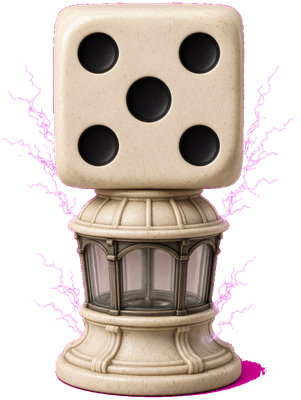
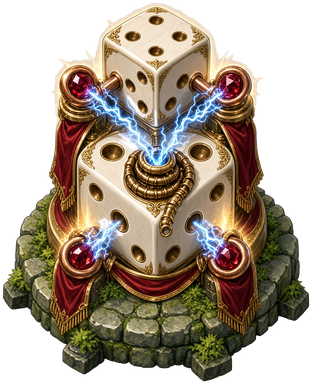
Add 78 final art assets: 24 tower skins, 34 walk sheets, 20 dual-path hard maps.
Tower b/c/d/e skins match tN-a silhouettes. Enemy and boss walk 2x2 sheets follow idle designs. Maps 31-50 now load *-hard.jpg dual-road layouts.

diff --git a/content.js b/content.js
@@ -31,26 +31,26 @@ window.DKCONTENT = (function () {
     { key: 'cMap28', src: 'casual/maps/map-28-toadstool.jpg', name: '버섯초원' },
     { key: 'cMap29', src: 'casual/maps/map-29-mesa.jpg', name: '메사협곡' },
     { key: 'cMap30', src: 'casual/maps/map-30-firefly.jpg', name: '반딧불숲' },
-    { key: 'cMap31', src: 'casual/maps/map-31-carnival.jpg', name: '서커스장' },
-    { key: 'cMap32', src: 'casual/maps/map-32-vineyard.jpg', name: '포도언덕' },
-    { key: 'cMap33', src: 'casual/maps/map-33-icelake.jpg', name: '얼음호수' },
-    { key: 'cMap34', src: 'casual/maps/map-34-jungle.jpg', name: '정글유적' },
-    { key: 'cMap35', src: 'casual/maps/map-35-tulip.jpg', name: '튤립풍차' },
-    { key: 'cMap36', src: 'casual/maps/map-36-crystalcity.jpg', name: '밤수정도시' },
-    { key: 'cMap37', src: 'casual/maps/map-37-lavender.jpg', name: '라벤더밭' },
-    { key: 'cMap38', src: 'casual/maps/map-38-halloween.jpg', name: '할로윈마을' },
-    { key: 'cMap39', src: 'casual/maps/map-39-bioreef.jpg', name: '야광산호' },
-    { key: 'cMap40', src: 'casual/maps/map-40-alpine.jpg', name: '알프스마을' },
-    { key: 'cMap41', src: 'casual/maps/map-41-rice.jpg', name: '계단식논' },
-    { key: 'cMap42', src: 'casual/maps/map-42-nightdesert.jpg', name: '밤오아시스' },
-    { key: 'cMap43', src: 'casual/maps/map-43-nightclock.jpg', name: '밤태엽도시' },
-    { key: 'cMap44', src: 'casual/maps/map-44-fairy.jpg', name: '요정공터' },
-    { key: 'cMap45', src: 'casual/maps/map-45-harbor.jpg', name: '어촌항구' },
-    { key: 'cMap46', src: 'casual/maps/map-46-nightbamboo.jpg', name: '밤대나무' },
-    { key: 'cMap47', src: 'casual/maps/map-47-candyspace.jpg', name: '사탕우주' },
-    { key: 'cMap48', src: 'casual/maps/map-48-orchard.jpg', name: '사과과수원' },
-    { key: 'cMap49', src: 'casual/maps/map-49-lavabeach.jpg', name: '용암해변' },
-    { key: 'cMap50', src: 'casual/maps/map-50-royal.jpg', name: '왕실정원' },
+    { key: 'cMap31', src: 'casual/maps/map-31-carnival-hard.jpg', name: '서커스장' },
+    { key: 'cMap32', src: 'casual/maps/map-32-vineyard-hard.jpg', name: '포도언덕' },
+    { key: 'cMap33', src: 'casual/maps/map-33-icelake-hard.jpg', name: '얼음호수' },
+    { key: 'cMap34', src: 'casual/maps/map-34-jungle-hard.jpg', name: '정글유적' },
+    { key: 'cMap35', src: 'casual/maps/map-35-tulip-hard.jpg', name: '튤립풍차' },
+    { key: 'cMap36', src: 'casual/maps/map-36-crystalcity-hard.jpg', name: '밤수정도시' },
+    { key: 'cMap37', src: 'casual/maps/map-37-lavender-hard.jpg', name: '라벤더밭' },
+    { key: 'cMap38', src: 'casual/maps/map-38-halloween-hard.jpg', name: '할로윈마을' },
+    { key: 'cMap39', src: 'casual/maps/map-39-bioreef-hard.jpg', name: '야광산호' },
+    { key: 'cMap40', src: 'casual/maps/map-40-alpine-hard.jpg', name: '알프스마을' },
+    { key: 'cMap41', src: 'casual/maps/map-41-rice-hard.jpg', name: '계단식논' },
+    { key: 'cMap42', src: 'casual/maps/map-42-nightdesert-hard.jpg', name: '밤오아시스' },
+    { key: 'cMap43', src: 'casual/maps/map-43-nightclock-hard.jpg', name: '밤태엽도시' },
+    { key: 'cMap44', src: 'casual/maps/map-44-fairy-hard.jpg', name: '요정공터' },
+    { key: 'cMap45', src: 'casual/maps/map-45-harbor-hard.jpg', name: '어촌항구' },
+    { key: 'cMap46', src: 'casual/maps/map-46-nightbamboo-hard.jpg', name: '밤대나무' },
+    { key: 'cMap47', src: 'casual/maps/map-47-candyspace-hard.jpg', name: '사탕우주' },
+    { key: 'cMap48', src: 'casual/maps/map-48-orchard-hard.jpg', name: '사과과수원' },
+    { key: 'cMap49', src: 'casual/maps/map-49-lavabeach-hard.jpg', name: '용암해변' },
+    { key: 'cMap50', src: 'casual/maps/map-50-royal-hard.jpg', name: '왕실정원' },
   ];
   // 공통 S커브 폴백: MAP_LAYOUTS에 항목이 없는 맵만 사용.
   const PATH_S = [
@@ -138,30 +138,30 @@ window.DKCONTENT = (function () {
     { id: 'raccoon', name: '너구리닌자', hp: 36, speed: 80, gold: 9, dmg: 1, size: 44, move: 'ground', sprite: 'cRaccoon', src: 'casual/enemies/raccoon.png', walk: 'cRaccoonWalk', walkSrc: 'casual/enemies/raccoon-walk-2x2.png' },
     { id: 'frog', name: '개구리음유시인', hp: 42, speed: 48, gold: 8, dmg: 1, size: 44, move: 'ground', sprite: 'cFrog', src: 'casual/enemies/frog.png', walk: 'cFrogWalk', walkSrc: 'casual/enemies/frog-walk-2x2.png' },
     { id: 'turtle', name: '거북전차', hp: 85, speed: 32, gold: 12, dmg: 2, size: 50, move: 'ground', sprite: 'cTurtle', src: 'casual/enemies/turtle.png', walk: 'cTurtleWalk', walkSrc: 'casual/enemies/turtle-walk-2x2.png' },
-    { id: 'squirrel', name: '도토리다람쥐', hp: 30, speed: 76, gold: 8, dmg: 1, size: 42, move: 'ground', sprite: 'cSquirrel', src: 'casual/enemies/squirrel.png' },
-    { id: 'hedgehog', name: '고슴도치창병', hp: 40, speed: 46, gold: 8, dmg: 1, size: 42, move: 'ground', sprite: 'cHedgehog', src: 'casual/enemies/hedgehog.png' },
-    { id: 'duck', name: '오리기사', hp: 44, speed: 58, gold: 8, dmg: 1, size: 46, move: 'ground', sprite: 'cDuck', src: 'casual/enemies/duck.png' },
-    { id: 'panda', name: '팬더수도승', hp: 72, speed: 36, gold: 11, dmg: 2, size: 50, move: 'ground', sprite: 'cPanda', src: 'casual/enemies/panda.png' },
-    { id: 'koala', name: '코알라우산', hp: 38, speed: 42, gold: 7, dmg: 1, size: 44, move: 'ground', sprite: 'cKoala', src: 'casual/enemies/koala.png' },
-    { id: 'catsamurai', name: '고양이무사', hp: 48, speed: 68, gold: 10, dmg: 1, size: 46, move: 'ground', sprite: 'cCatsamurai', src: 'casual/enemies/catsamurai.png' },
-    { id: 'goat', name: '염소등반가', hp: 55, speed: 50, gold: 9, dmg: 1, size: 48, move: 'ground', sprite: 'cGoat', src: 'casual/enemies/goat.png' },
-    { id: 'otter', name: '수달창병', hp: 36, speed: 64, gold: 8, dmg: 1, size: 42, move: 'ground', sprite: 'cOtter', src: 'casual/enemies/otter.png' },
-    { id: 'tanuki', name: '너구리요술사', hp: 42, speed: 52, gold: 9, dmg: 1, size: 46, move: 'ground', sprite: 'cTanuki', src: 'casual/enemies/tanuki.png' },
-    { id: 'wolf', name: '늑대정찰', hp: 44, speed: 72, gold: 10, dmg: 1, size: 46, move: 'ground', sprite: 'cWolf', src: 'casual/enemies/wolf.png' },
-    { id: 'boar', name: '멧돼지기사', hp: 78, speed: 40, gold: 12, dmg: 2, size: 50, move: 'ground', sprite: 'cBoar', src: 'casual/enemies/boar.png' },
-    { id: 'mouse', name: '생쥐마법사', hp: 28, speed: 66, gold: 8, dmg: 1, size: 40, move: 'ground', sprite: 'cMouse', src: 'casual/enemies/mouse.png' },
-    { id: 'chameleon', name: '카멜레온화가', hp: 40, speed: 54, gold: 9, dmg: 1, size: 44, move: 'ground', sprite: 'cChameleon', src: 'casual/enemies/chameleon.png' },
-    { id: 'seahorse', name: '해마기사', hp: 36, speed: 58, gold: 8, dmg: 1, size: 44, move: 'ground', sprite: 'cSeahorse', src: 'casual/enemies/seahorse.png' },
-    { id: 'alpaca', name: '알파카짐꾼', hp: 50, speed: 46, gold: 9, dmg: 1, size: 48, move: 'ground', sprite: 'cAlpaca', src: 'casual/enemies/alpaca.png' },
-    { id: 'beaver', name: '비버목수', hp: 52, speed: 44, gold: 9, dmg: 1, size: 46, move: 'ground', sprite: 'cBeaver', src: 'casual/enemies/beaver.png' },
-    { id: 'snake', name: '뱀닌자', hp: 34, speed: 82, gold: 10, dmg: 1, size: 42, move: 'ground', sprite: 'cSnake', src: 'casual/enemies/snake.png' },
-    { id: 'porcupine', name: '호저방패', hp: 70, speed: 38, gold: 11, dmg: 2, size: 48, move: 'ground', sprite: 'cPorcupine', src: 'casual/enemies/porcupine.png' },
-    { id: 'kiwi', name: '키위기사', hp: 40, speed: 50, gold: 8, dmg: 1, size: 44, move: 'ground', sprite: 'cKiwi', src: 'casual/enemies/kiwi.png' },
-    { id: 'rhino', name: '아기코뿔소', hp: 88, speed: 34, gold: 13, dmg: 2, size: 52, move: 'ground', sprite: 'cRhino', src: 'casual/enemies/rhino.png' },
-    { id: 'hippo', name: '하마선원', hp: 80, speed: 36, gold: 12, dmg: 2, size: 52, move: 'ground', sprite: 'cHippo', src: 'casual/enemies/hippo.png' },
-    { id: 'capybara', name: '카피바라온천', hp: 60, speed: 40, gold: 10, dmg: 1, size: 50, move: 'ground', sprite: 'cCapybara', src: 'casual/enemies/capybara.png' },
-    { id: 'axolotl', name: '아홀로틀마법', hp: 34, speed: 52, gold: 9, dmg: 1, size: 44, move: 'ground', sprite: 'cAxolotl', src: 'casual/enemies/axolotl.png' },
-    { id: 'meerkat', name: '미어캣파수', hp: 32, speed: 70, gold: 8, dmg: 1, size: 42, move: 'ground', sprite: 'cMeerkat', src: 'casual/enemies/meerkat.png' },
+    { id: 'squirrel', name: '도토리다람쥐', hp: 30, speed: 76, gold: 8, dmg: 1, size: 42, move: 'ground', sprite: 'cSquirrel', src: 'casual/enemies/squirrel.png', walk: 'cSquirrelWalk', walkSrc: 'casual/enemies/squirrel-walk-2x2.png' },
+    { id: 'hedgehog', name: '고슴도치창병', hp: 40, speed: 46, gold: 8, dmg: 1, size: 42, move: 'ground', sprite: 'cHedgehog', src: 'casual/enemies/hedgehog.png', walk: 'cHedgehogWalk', walkSrc: 'casual/enemies/hedgehog-walk-2x2.png' },
+    { id: 'duck', name: '오리기사', hp: 44, speed: 58, gold: 8, dmg: 1, size: 46, move: 'ground', sprite: 'cDuck', src: 'casual/enemies/duck.png', walk: 'cDuckWalk', walkSrc: 'casual/enemies/duck-walk-2x2.png' },
+    { id: 'panda', name: '팬더수도승', hp: 72, speed: 36, gold: 11, dmg: 2, size: 50, move: 'ground', sprite: 'cPanda', src: 'casual/enemies/panda.png', walk: 'cPandaWalk', walkSrc: 'casual/enemies/panda-walk-2x2.png' },
+    { id: 'koala', name: '코알라우산', hp: 38, speed: 42, gold: 7, dmg: 1, size: 44, move: 'ground', sprite: 'cKoala', src: 'casual/enemies/koala.png', walk: 'cKoalaWalk', walkSrc: 'casual/enemies/koala-walk-2x2.png' },
+    { id: 'catsamurai', name: '고양이무사', hp: 48, speed: 68, gold: 10, dmg: 1, size: 46, move: 'ground', sprite: 'cCatsamurai', src: 'casual/enemies/catsamurai.png', walk: 'cCatsamuraiWalk', walkSrc: 'casual/enemies/catsamurai-walk-2x2.png' },
+    { id: 'goat', name: '염소등반가', hp: 55, speed: 50, gold: 9, dmg: 1, size: 48, move: 'ground', sprite: 'cGoat', src: 'casual/enemies/goat.png', walk: 'cGoatWalk', walkSrc: 'casual/enemies/goat-walk-2x2.png' },
+    { id: 'otter', name: '수달창병', hp: 36, speed: 64, gold: 8, dmg: 1, size: 42, move: 'ground', sprite: 'cOtter', src: 'casual/enemies/otter.png', walk: 'cOtterWalk', walkSrc: 'casual/enemies/otter-walk-2x2.png' },
+    { id: 'tanuki', name: '너구리요술사', hp: 42, speed: 52, gold: 9, dmg: 1, size: 46, move: 'ground', sprite: 'cTanuki', src: 'casual/enemies/tanuki.png', walk: 'cTanukiWalk', walkSrc: 'casual/enemies/tanuki-walk-2x2.png' },
+    { id: 'wolf', name: '늑대정찰', hp: 44, speed: 72, gold: 10, dmg: 1, size: 46, move: 'ground', sprite: 'cWolf', src: 'casual/enemies/wolf.png', walk: 'cWolfWalk', walkSrc: 'casual/enemies/wolf-walk-2x2.png' },
+    { id: 'boar', name: '멧돼지기사', hp: 78, speed: 40, gold: 12, dmg: 2, size: 50, move: 'ground', sprite: 'cBoar', src: 'casual/enemies/boar.png', walk: 'cBoarWalk', walkSrc: 'casual/enemies/boar-walk-2x2.png' },
+    { id: 'mouse', name: '생쥐마법사', hp: 28, speed: 66, gold: 8, dmg: 1, size: 40, move: 'ground', sprite: 'cMouse', src: 'casual/enemies/mouse.png', walk: 'cMouseWalk', walkSrc: 'casual/enemies/mouse-walk-2x2.png' },
+    { id: 'chameleon', name: '카멜레온화가', hp: 40, speed: 54, gold: 9, dmg: 1, size: 44, move: 'ground', sprite: 'cChameleon', src: 'casual/enemies/chameleon.png', walk: 'cChameleonWalk', walkSrc: 'casual/enemies/chameleon-walk-2x2.png' },
+    { id: 'seahorse', name: '해마기사', hp: 36, speed: 58, gold: 8, dmg: 1, size: 44, move: 'ground', sprite: 'cSeahorse', src: 'casual/enemies/seahorse.png', walk: 'cSeahorseWalk', walkSrc: 'casual/enemies/seahorse-walk-2x2.png' },
+    { id: 'alpaca', name: '알파카짐꾼', hp: 50, speed: 46, gold: 9, dmg: 1, size: 48, move: 'ground', sprite: 'cAlpaca', src: 'casual/enemies/alpaca.png', walk: 'cAlpacaWalk', walkSrc: 'casual/enemies/alpaca-walk-2x2.png' },
+    { id: 'beaver', name: '비버목수', hp: 52, speed: 44, gold: 9, dmg: 1, size: 46, move: 'ground', sprite: 'cBeaver', src: 'casual/enemies/beaver.png', walk: 'cBeaverWalk', walkSrc: 'casual/enemies/beaver-walk-2x2.png' },
+    { id: 'snake', name: '뱀닌자', hp: 34, speed: 82, gold: 10, dmg: 1, size: 42, move: 'ground', sprite: 'cSnake', src: 'casual/enemies/snake.png', walk: 'cSnakeWalk', walkSrc: 'casual/enemies/snake-walk-2x2.png' },
+    { id: 'porcupine', name: '호저방패', hp: 70, speed: 38, gold: 11, dmg: 2, size: 48, move: 'ground', sprite: 'cPorcupine', src: 'casual/enemies/porcupine.png', walk: 'cPorcupineWalk', walkSrc: 'casual/enemies/porcupine-walk-2x2.png' },
+    { id: 'kiwi', name: '키위기사', hp: 40, speed: 50, gold: 8, dmg: 1, size: 44, move: 'ground', sprite: 'cKiwi', src: 'casual/enemies/kiwi.png', walk: 'cKiwiWalk', walkSrc: 'casual/enemies/kiwi-walk-2x2.png' },
+    { id: 'rhino', name: '아기코뿔소', hp: 88, speed: 34, gold: 13, dmg: 2, size: 52, move: 'ground', sprite: 'cRhino', src: 'casual/enemies/rhino.png', walk: 'cRhinoWalk', walkSrc: 'casual/enemies/rhino-walk-2x2.png' },
+    { id: 'hippo', name: '하마선원', hp: 80, speed: 36, gold: 12, dmg: 2, size: 52, move: 'ground', sprite: 'cHippo', src: 'casual/enemies/hippo.png', walk: 'cHippoWalk', walkSrc: 'casual/enemies/hippo-walk-2x2.png' },
+    { id: 'capybara', name: '카피바라온천', hp: 60, speed: 40, gold: 10, dmg: 1, size: 50, move: 'ground', sprite: 'cCapybara', src: 'casual/enemies/capybara.png', walk: 'cCapybaraWalk', walkSrc: 'casual/enemies/capybara-walk-2x2.png' },
+    { id: 'axolotl', name: '아홀로틀마법', hp: 34, speed: 52, gold: 9, dmg: 1, size: 44, move: 'ground', sprite: 'cAxolotl', src: 'casual/enemies/axolotl.png', walk: 'cAxolotlWalk', walkSrc: 'casual/enemies/axolotl-walk-2x2.png' },
+    { id: 'meerkat', name: '미어캣파수', hp: 32, speed: 70, gold: 8, dmg: 1, size: 42, move: 'ground', sprite: 'cMeerkat', src: 'casual/enemies/meerkat.png', walk: 'cMeerkatWalk', walkSrc: 'casual/enemies/meerkat-walk-2x2.png' },
     { id: 'lemur', name: '여우원숭이', hp: 38, speed: 68, gold: 9, dmg: 1, size: 44, move: 'ground', sprite: 'cLemur', src: 'casual/enemies/lemur.png' },
     { id: 'sloth', name: '나무늘보', hp: 55, speed: 28, gold: 8, dmg: 1, size: 48, move: 'ground', sprite: 'cSloth', src: 'casual/enemies/sloth.png' },
     { id: 'quokka', name: '쿼카꽃관', hp: 36, speed: 56, gold: 8, dmg: 1, size: 42, move: 'ground', sprite: 'cQuokka', src: 'casual/enemies/quokka.png' },
@@ -628,16 +628,16 @@ window.DKCONTENT = (function () {
     { id: 'vanilla', name: '바닐라광부', hp: 34, speed: 50, gold: 9, dmg: 1, size: 44, move: 'burrow', sprite: 'cVanilla', src: 'casual/enemies/vanilla.png' },
   ];
   const bossBases = [
-    { id: 'kingSlime', name: '슬라임왕', hp: 720, speed: 28, gold: 90, dmg: 4, size: 86, move: 'ground', sprite: 'cKingSlime', src: 'casual/bosses/king-slime.png' },
-    { id: 'diceDragon', name: '주사위용', hp: 980, speed: 30, gold: 120, dmg: 5, size: 92, move: 'air', sprite: 'cDiceDragon', src: 'casual/bosses/dice-dragon.png' },
-    { id: 'ogreChef', name: '주사위요리사', hp: 1100, speed: 24, gold: 130, dmg: 5, size: 90, move: 'ground', sprite: 'cOgreChef', src: 'casual/bosses/ogre-chef.png' },
-    { id: 'pumpkinKing', name: '호박왕', hp: 880, speed: 26, gold: 110, dmg: 4, size: 88, move: 'ground', sprite: 'cPumpkinKing', src: 'casual/bosses/pumpkin-king.png' },
-    { id: 'yeti', name: '주사위예티', hp: 1050, speed: 22, gold: 125, dmg: 5, size: 92, move: 'ground', sprite: 'cYeti', src: 'casual/bosses/yeti.png' },
-    { id: 'candyGolem', name: '사탕골렘', hp: 1200, speed: 20, gold: 140, dmg: 5, size: 94, move: 'ground', sprite: 'cCandyGolem', src: 'casual/bosses/candy-golem.png' },
-    { id: 'kraken', name: '해적크라켄', hp: 960, speed: 32, gold: 130, dmg: 5, size: 90, move: 'air', sprite: 'cKraken', src: 'casual/bosses/kraken.png' },
-    { id: 'clockOwl', name: '태엽올빼미', hp: 1080, speed: 26, gold: 135, dmg: 5, size: 90, move: 'air', sprite: 'cClockOwl', src: 'casual/bosses/clock-owl.png' },
-    { id: 'coralQueen', name: '산호여왕', hp: 1020, speed: 28, gold: 128, dmg: 5, size: 88, move: 'ground', sprite: 'cCoralQueen', src: 'casual/bosses/coral-queen.png' },
-    { id: 'ghostKing', name: '유령왕', hp: 940, speed: 34, gold: 122, dmg: 5, size: 88, move: 'air', sprite: 'cGhostKing', src: 'casual/bosses/ghost-king.png' },
+    { id: 'kingSlime', name: '슬라임왕', hp: 720, speed: 28, gold: 90, dmg: 4, size: 86, move: 'ground', sprite: 'cKingSlime', src: 'casual/bosses/king-slime.png', walk: 'cKingSlimeWalk', walkSrc: 'casual/bosses/king-slime-walk-2x2.png' },
+    { id: 'diceDragon', name: '주사위용', hp: 980, speed: 30, gold: 120, dmg: 5, size: 92, move: 'air', sprite: 'cDiceDragon', src: 'casual/bosses/dice-dragon.png', walk: 'cDiceDragonWalk', walkSrc: 'casual/bosses/dice-dragon-walk-2x2.png' },
+    { id: 'ogreChef', name: '주사위요리사', hp: 1100, speed: 24, gold: 130, dmg: 5, size: 90, move: 'ground', sprite: 'cOgreChef', src: 'casual/bosses/ogre-chef.png', walk: 'cOgreChefWalk', walkSrc: 'casual/bosses/ogre-chef-walk-2x2.png' },
+    { id: 'pumpkinKing', name: '호박왕', hp: 880, speed: 26, gold: 110, dmg: 4, size: 88, move: 'ground', sprite: 'cPumpkinKing', src: 'casual/bosses/pumpkin-king.png', walk: 'cPumpkinKingWalk', walkSrc: 'casual/bosses/pumpkin-king-walk-2x2.png' },
+    { id: 'yeti', name: '주사위예티', hp: 1050, speed: 22, gold: 125, dmg: 5, size: 92, move: 'ground', sprite: 'cYeti', src: 'casual/bosses/yeti.png', walk: 'cYetiWalk', walkSrc: 'casual/bosses/yeti-walk-2x2.png' },
+    { id: 'candyGolem', name: '사탕골렘', hp: 1200, speed: 20, gold: 140, dmg: 5, size: 94, move: 'ground', sprite: 'cCandyGolem', src: 'casual/bosses/candy-golem.png', walk: 'cCandyGolemWalk', walkSrc: 'casual/bosses/candy-golem-walk-2x2.png' },
+    { id: 'kraken', name: '해적크라켄', hp: 960, speed: 32, gold: 130, dmg: 5, size: 90, move: 'air', sprite: 'cKraken', src: 'casual/bosses/kraken.png', walk: 'cKrakenWalk', walkSrc: 'casual/bosses/kraken-walk-2x2.png' },
+    { id: 'clockOwl', name: '태엽올빼미', hp: 1080, speed: 26, gold: 135, dmg: 5, size: 90, move: 'air', sprite: 'cClockOwl', src: 'casual/bosses/clock-owl.png', walk: 'cClockOwlWalk', walkSrc: 'casual/bosses/clock-owl-walk-2x2.png' },
+    { id: 'coralQueen', name: '산호여왕', hp: 1020, speed: 28, gold: 128, dmg: 5, size: 88, move: 'ground', sprite: 'cCoralQueen', src: 'casual/bosses/coral-queen.png', walk: 'cCoralQueenWalk', walkSrc: 'casual/bosses/coral-queen-walk-2x2.png' },
+    { id: 'ghostKing', name: '유령왕', hp: 940, speed: 34, gold: 122, dmg: 5, size: 88, move: 'air', sprite: 'cGhostKing', src: 'casual/bosses/ghost-king.png', walk: 'cGhostKingWalk', walkSrc: 'casual/bosses/ghost-king-walk-2x2.png' },
     { id: 'honeyBear', name: '꿀곰대왕', hp: 1250, speed: 22, gold: 145, dmg: 5, size: 94, move: 'ground', sprite: 'cHoneyBear', src: 'casual/bosses/honey-bear.png' },
     { id: 'lionMaster', name: '서커스사자', hp: 1120, speed: 30, gold: 138, dmg: 5, size: 90, move: 'ground', sprite: 'cLionMaster', src: 'casual/bosses/lion-master.png' },
     { id: 'mapleTreant', name: '단풍정령', hp: 1180, speed: 24, gold: 140, dmg: 5, size: 94, move: 'ground', sprite: 'cMapleTreant', src: 'casual/bosses/maple-treant.png' },

diff --git a/index.html b/index.html
@@ -4,7 +4,7 @@
 <meta charset="UTF-8" />
 <meta name="viewport" content="width=device-width, initial-scale=1" />
 <title>주사위 성채 (Dicekeep)</title>
-<link rel="stylesheet" href="style.css?v=40" />
+<link rel="stylesheet" href="style.css?v=41" />
 <link rel="icon" href="ui/gold.png" />
 </head>
 <body>
@@ -106,7 +106,7 @@
   <img id="ghost-tower" alt="">
   <div id="ghost-ring"></div>
 </div>
-<script src="content.js?v=40"></script>
-<script src="game.js?v=40"></script>
+<script src="content.js?v=41"></script>
+<script src="game.js?v=41"></script>
 </body>
 </html>

diff --git a/ART-PIPELINE.md b/ART-PIPELINE.md
@@ -6,16 +6,14 @@
 | 항목 | 목표 | 상태 |
 |---|---|---|
 | 스테이지 | 100 | **완성** |
-| 배경 | 50 | **완성** |
-| 몬스터 종 | 500 | **500 고유 완성** |
-| 보스 | 100 | **100 고유 완성** |
-| 타워 | 2D 아이소 건물 6종 | **재작업** (마젠타 키잉, 동일 스케일) |
-| 공격 모션 P2 | 눈별 2x2 | **새 타워에 맞게 재생성** |
-| 맵 경로 | 맵별 PATH/SPOTS | **S커브 기본 + 대나무/태엽 오버라이드** |
+| 배경 | 50 + 하드 20 | **하드맵 31–50 완료** (`*-hard.jpg`) |
+| 몬스터 종 | 500 | **500 고유** |
+| 보스 | 100 | **100 고유** |
+| 타워 스킨 | 눈당 5 = 30 | **a 유지 + b/c/d/e 24장 재작업** |
+| 적 걷기 | 순차 | **기존 12 + 신규 24 = 36** |
+| 보스 걷기 | 10 | **완료** |
 
-## 25차 품질 수정
-- 3D 주사위 큐브 타워 → 2D 페인트 아이소메트릭 건물 (눈 수 = 무기)
-- 회색/마젠타 잔상 키잉
-- 타워 크기 박스 핏 (70×96)
-- 발사 시 공격 시트 재생
-- 맵마다 흙길을 따라 PATH, 길 옆 잔디에 SPOTS
+## 2026-09-02 납품 (78장)
+- C 타워 스킨 24: `t1-b`~`t6-e` (숲/얼음/로열/공허)
+- B 걷기 34: 적 24 + 보스 10
+- A 하드 배경 20: `map-31-carnival-hard.jpg` … `map-50-royal-hard.jpg` (두 갈래 길)
